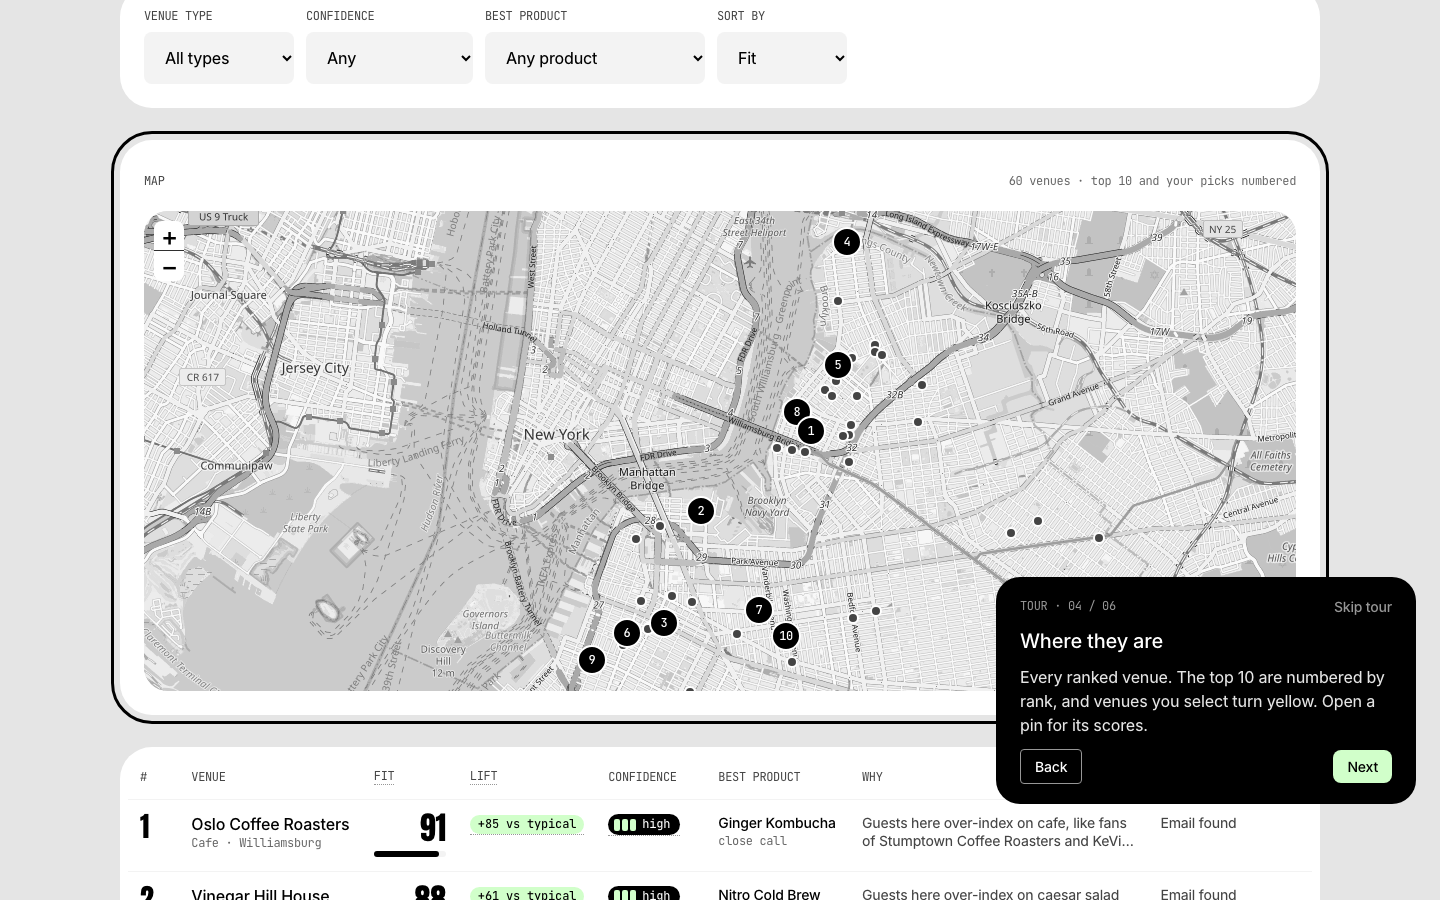
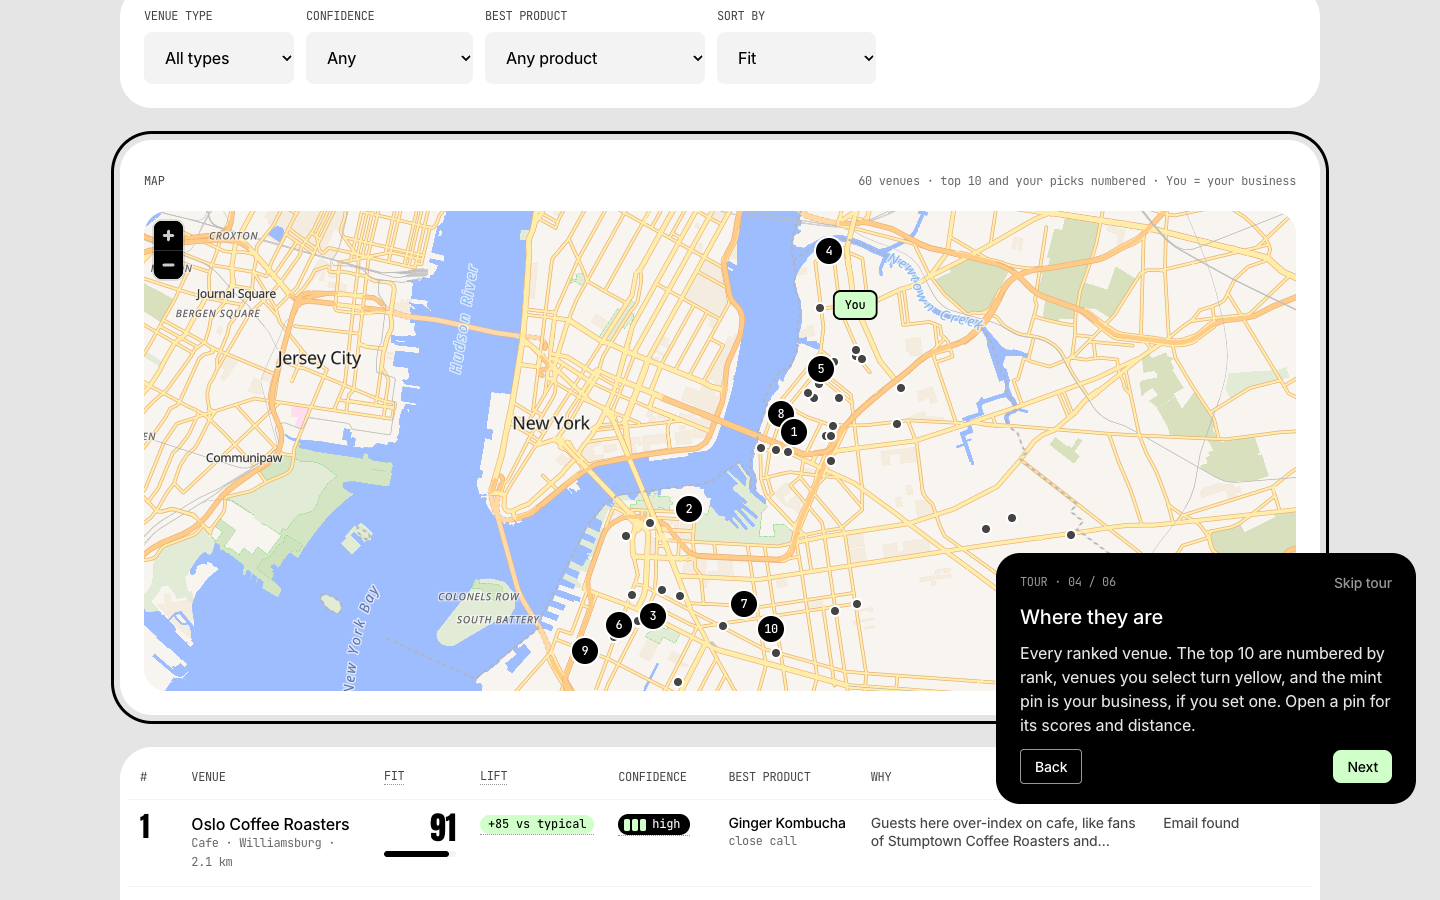
docs: README screenshots with the new colourful map (results, venue, start with the location picker, tour, phone width) [REP-02, UI-01]

diff --git a/README.md b/README.md
@@ -83,7 +83,7 @@ Keys stay on the API. The browser calls only FastAPI, plus public map tiles that
   </tr>
   <tr>
     <td><img src="./docs/screenshots/trace.png" alt="Trace page listing agent steps, LLM calls, Qloo calls with cache hits and web lookups."></td>
-    <td><img src="./docs/screenshots/start.png" alt="Start wizard step one: use my website or describe instead."></td>
+    <td><img src="./docs/screenshots/start.png" alt="Start wizard step one: use my website or describe instead, then an optional business location with a search box and a world map to click."></td>
   </tr>
   <tr>
     <td><b>Trace.</b> Every agent step, LLM call, Qloo call and web lookup, in order. Keys never appear.</td>
